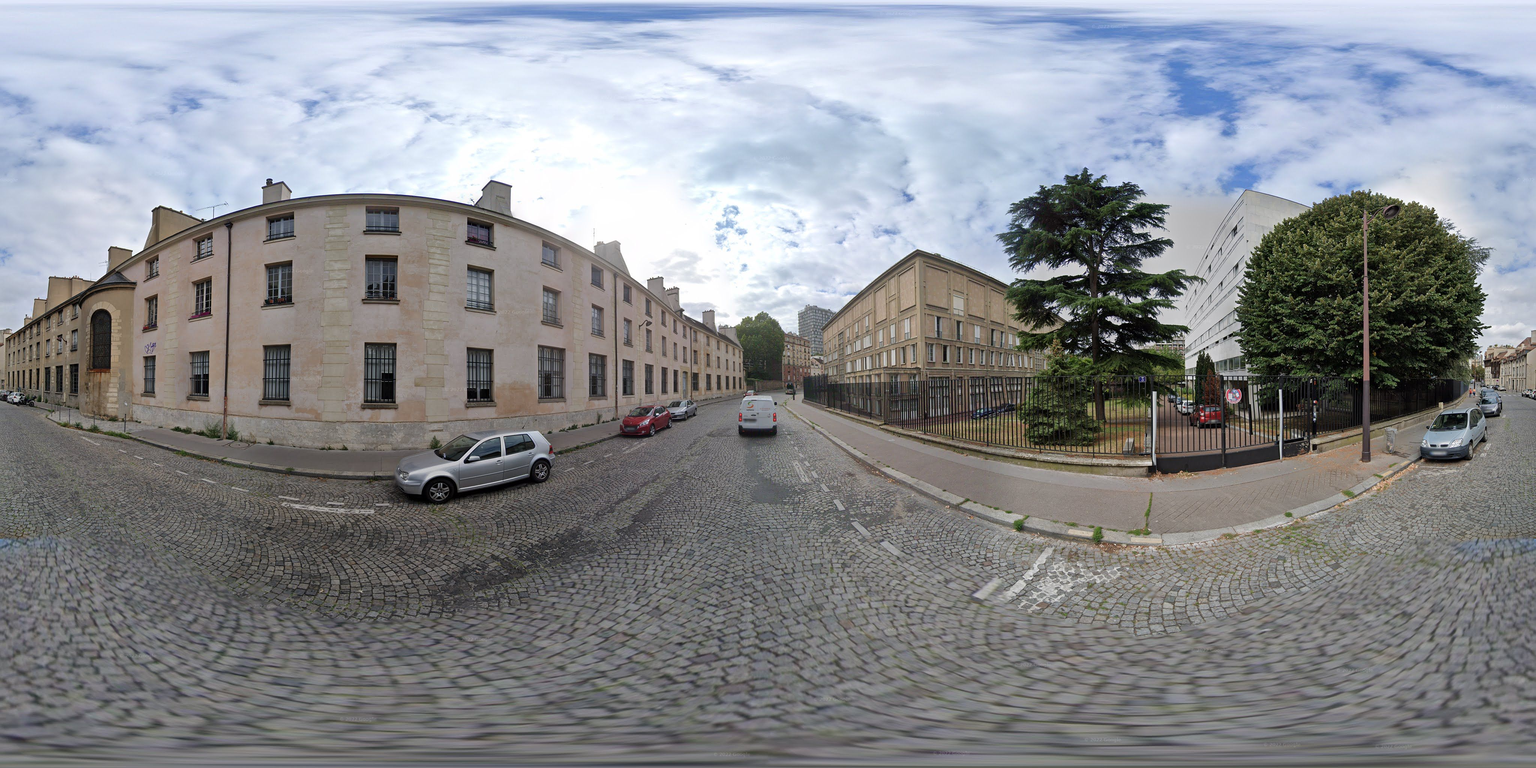
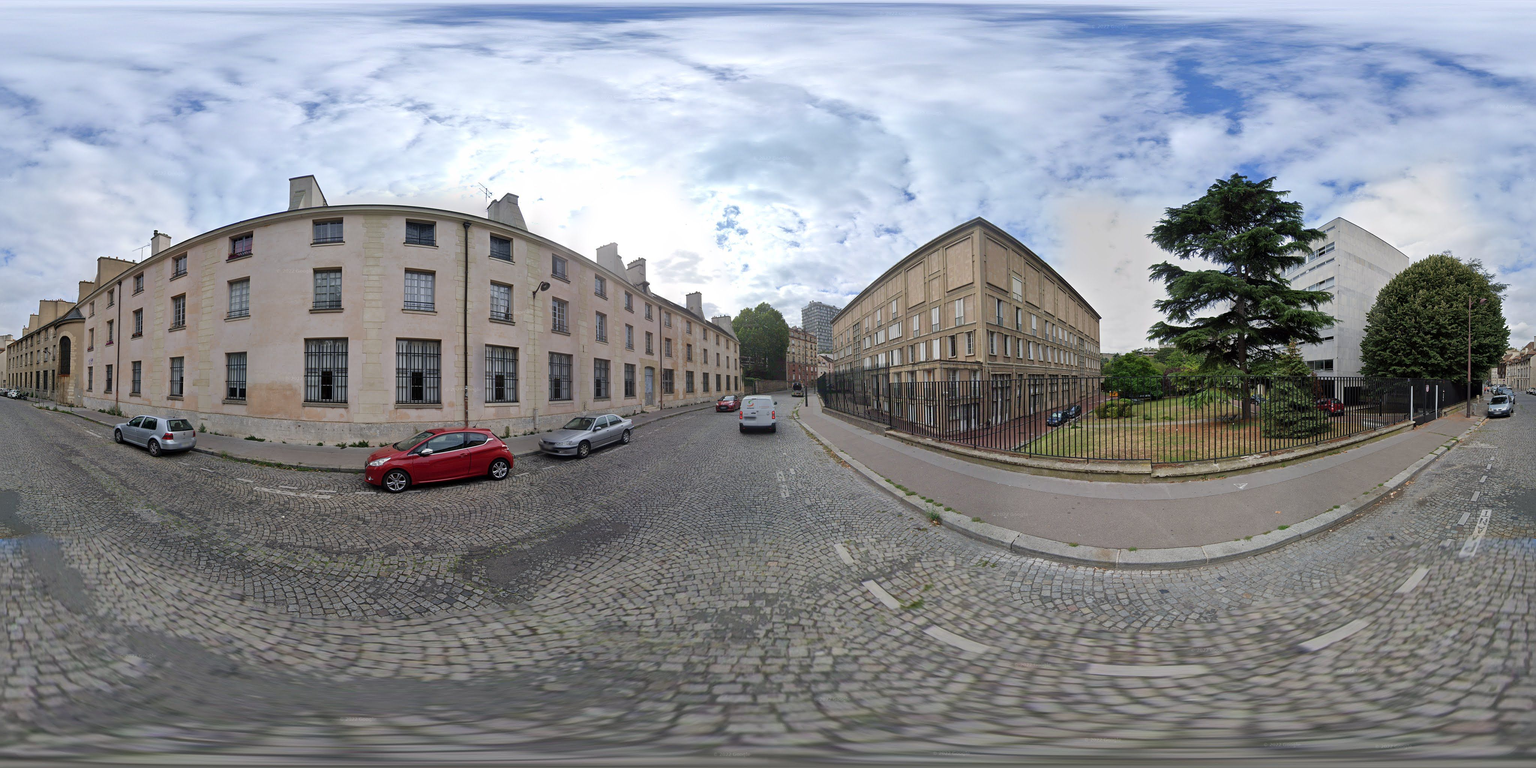
Add files via upload

diff --git a/bievre-histoire-au-fil-de-l-eau/index.html b/bievre-histoire-au-fil-de-l-eau/index.html
@@ -720,7 +720,7 @@ const pointsOfInterest = [
   },
   { name:"La Bièvre, ruelle des Gobelins, actuellement rue Berbier-du-Mets, vers 1920.", lat:48.8336655, lng:2.3516666, year:"vers 1920",
     description:``,
-    historicalImage:"images/7.webp", currentImage:"360.html?src=images/7.jpg",
+    historicalImage:"images/7b.webp", currentImage:"360.html?src=images/7b.jpg",
     legend:"La Bièvre, ruelle des Gobelins, actuellement rue Berbier-du-Mets, vers 1920. © Albert Harlingue/Roger-Viollet"
   },
 
@@ -761,7 +761,7 @@ const pointsOfInterest = [
     legend:"Source ?"
   },
 
-  { name:"La Bièvre au chevet de la chapelle des Gobelins", lat:48.8349548, lng:2.3527276, year:"1823",
+  { name:"La Bièvre au chevet de la chapelle des Gobelins", lat:48.8342906, lng:2.3514313, year:"1823",
     description:`<p></p>`,
     historicalImage:"images/13.webp", currentImage:"360.html?src=images/13.jpg",
     legend:"La Bièvre au chevet de la chapelle des Gobelins 1823 (BNF)"
@@ -793,6 +793,12 @@ const pointsOfInterest = [
   { name:"", lat: 48.8382688, lng: 2.3508197, year:"1897",
     description:`<p>La Bièvre au bief de Valence, 5ème arrondissement, Paris.</p>`,
     historicalImage:"images/18.webp", currentImage:"360.html?src=images/18.jpg",
+    legend:"La Bièvre au bief de Valence, 5ème arrondissement, Paris. Emonts ou Emonds, Pierre"
+  },
+
+  { name:"", lat: 48.8328842, lng: 2.3512276, year:"1897",
+    description:`<p>zzzzzzzzzzzzzzzzzzzzzzzzzzzz</p>`,
+    historicalImage:"images/19.webp", currentImage:"360.html?src=images/19.jpg",
     legend:"La Bièvre au bief de Valence, 5ème arrondissement, Paris. Emonts ou Emonds, Pierre"
   }
 
